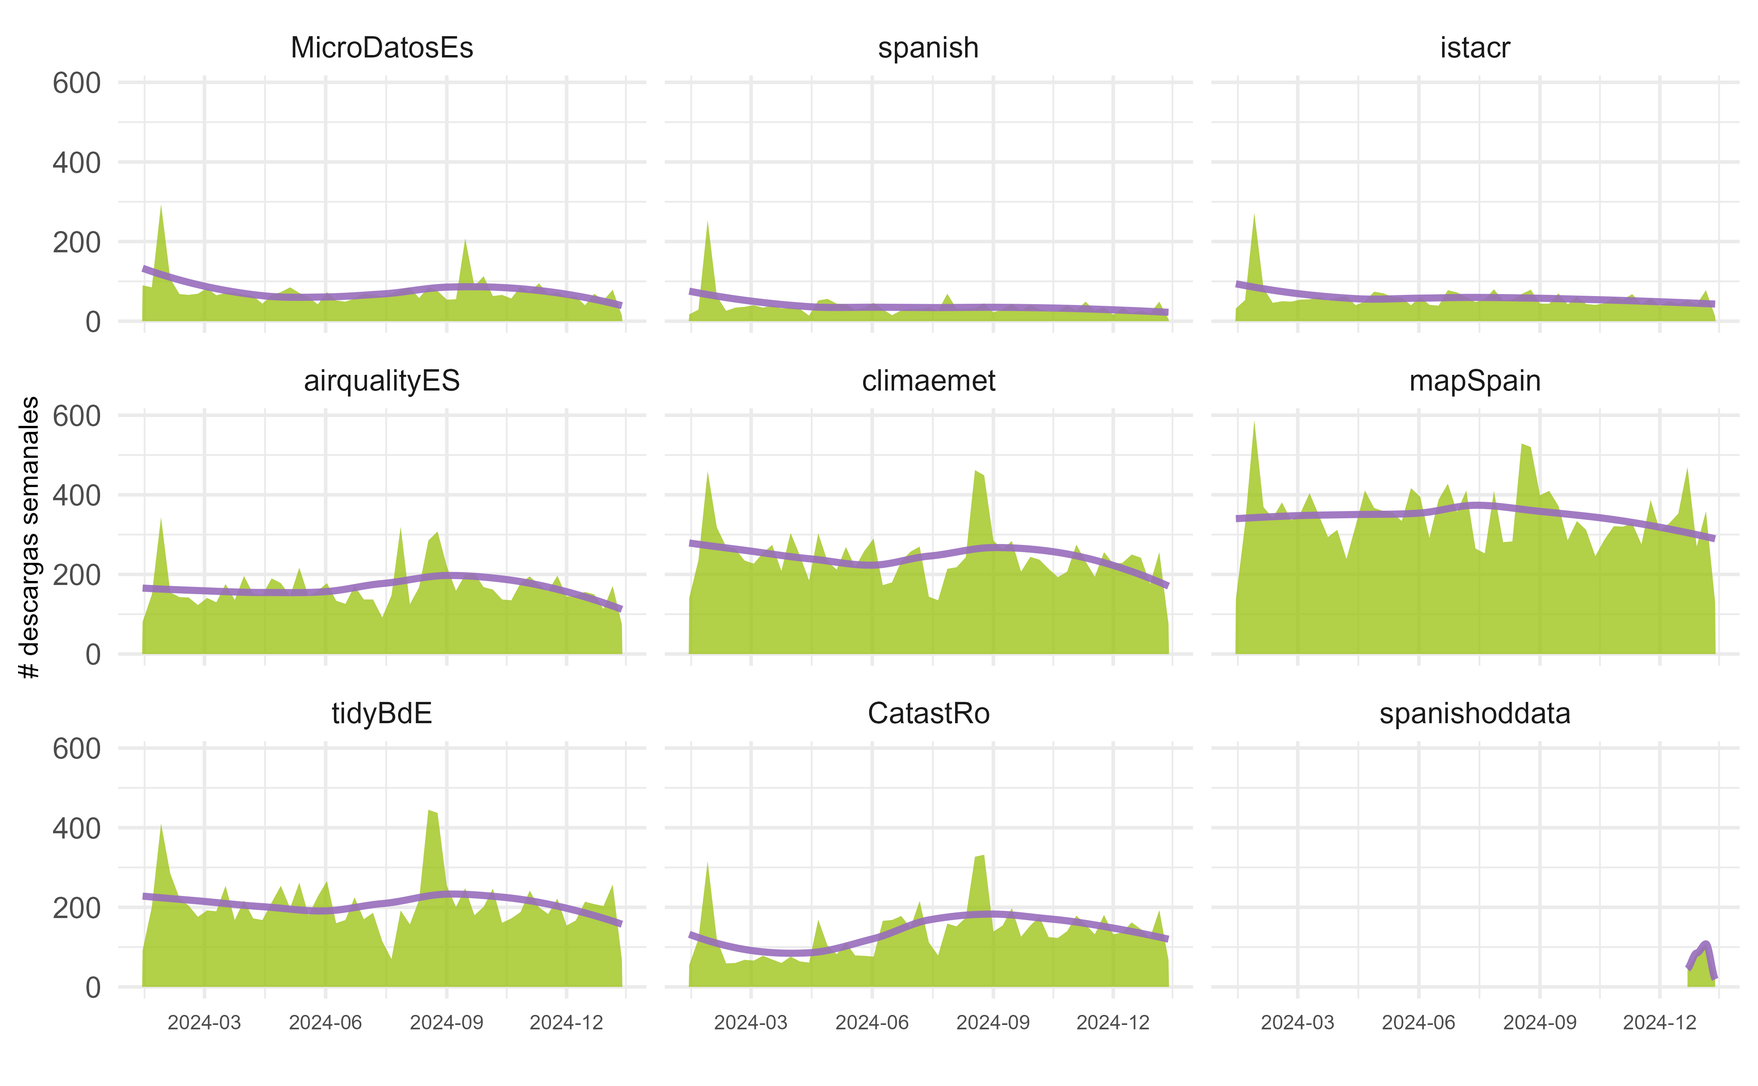
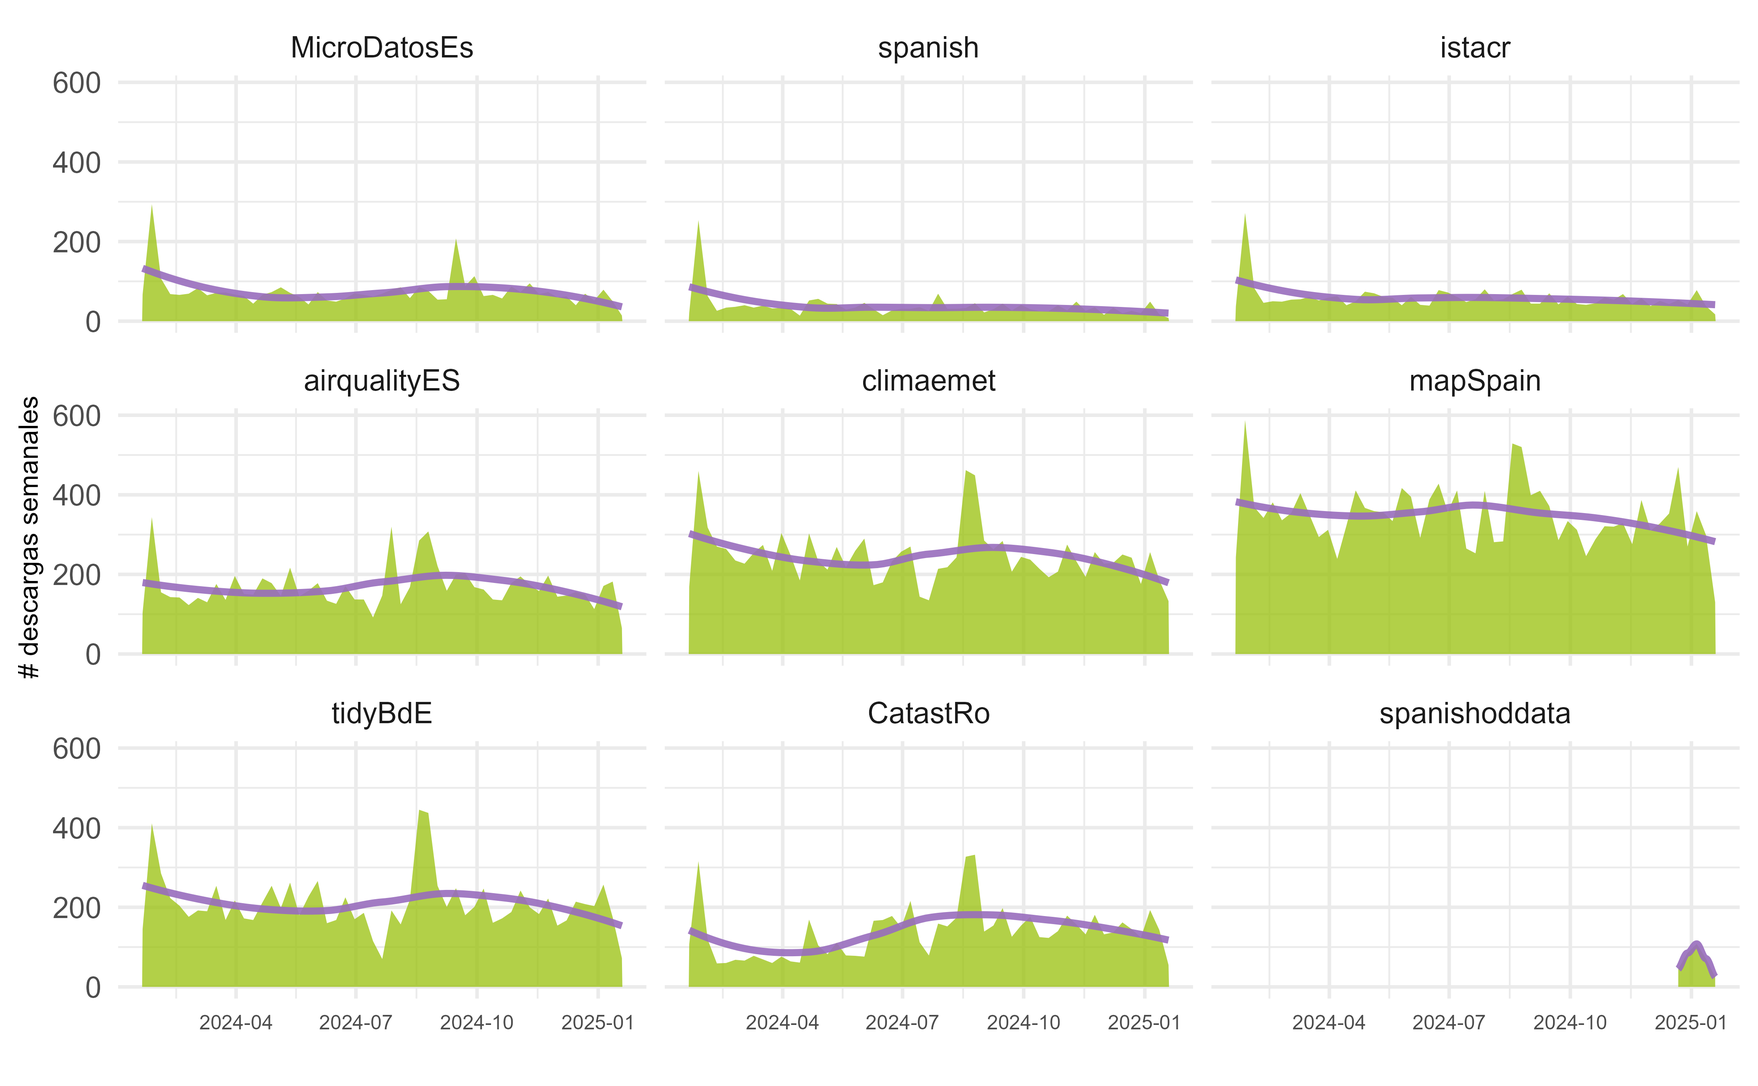
Built site for rostemplate@0.2.0.9000: c3ace7c

diff --git a/articles/descargas.html b/articles/descargas.html
@@ -79,7 +79,7 @@
 
     
     
-<p><em>Fecha de actualización: 09 Jan 2025</em></p>
+<p><em>Fecha de actualización: 16 Jan 2025</em></p>
 <div class="section level2">
 <h2 id="en-cran">En CRAN<a class="anchor" aria-label="anchor" href="#en-cran"></a>
 </h2>
@@ -98,7 +98,7 @@
 <h3 id="datos-sobre-descargas">Datos sobre descargas<a class="anchor" aria-label="anchor" href="#datos-sobre-descargas"></a>
 </h3>
 <div class="reactable html-widget html-fill-item" id="cran-dwn" style="width:auto;height:auto;"></div>
-<script type="application/json" data-for="cran-dwn">{"x":{"tag":{"name":"Reactable","attribs":{"data":{"paquete":["mapSpain","climaemet","tidyBdE","airqualityES","CatastRo","MicroDatosEs","spanishoddata","istacr","spanish"],"en CRAN desde":["2020-11-30","2020-07-07","2021-04-08","2020-02-29","2022-02-28","2013-10-22","2024-12-18","2019-05-03","2018-01-08"],"Versión en CRAN":["2024-12-15","2024-08-28","2024-12-20","2020-02-29","2024-06-02","2023-11-24","2024-12-18","2022-12-20","2019-05-10"],"media diaria":[33,22.4,21.2,20.8,13.4,12.5,11.7,11.1,9.5],"último dia":[85,61,57,62,52,4,7,6,1],"última semana":[266,179,159,153,154,56,58,57,40],"último mes":[1521,937,899,625,652,253,257,222,119],"último año":[18294,12925,11064,8803,7114,3991,257,3099,1980]},"columns":[{"id":"paquete","name":"paquete","type":"character","minWidth":150,"vAlign":"center","footerStyle":{"fontWeight":"bold"},"cell":[{"name":"div","attribs":{},"children":[{"name":"div","attribs":{"style":{"fontWeight":"bold"}},"children":[{"name":"a","attribs":{"href":"https://CRAN.R-project.org/package=mapSpain","target":"_blank"},"children":["mapSpain"]}]},{"name":"div","attribs":{"style":{"fontSize":"75%"}},"children":[{"name":"img","attribs":{"src":"https://badges.cranchecks.info/worst/mapSpain.svg","alt":"mapSpain"},"children":[]}]}]},{"name":"div","attribs":{},"children":[{"name":"div","attribs":{"style":{"fontWeight":"bold"}},"children":[{"name":"a","attribs":{"href":"https://CRAN.R-project.org/package=climaemet","target":"_blank"},"children":["climaemet"]}]},{"name":"div","attribs":{"style":{"fontSize":"75%"}},"children":[{"name":"img","attribs":{"src":"https://badges.cranchecks.info/worst/climaemet.svg","alt":"climaemet"},"children":[]}]}]},{"name":"div","attribs":{},"children":[{"name":"div","attribs":{"style":{"fontWeight":"bold"}},"children":[{"name":"a","attribs":{"href":"https://CRAN.R-project.org/package=tidyBdE","target":"_blank"},"children":["tidyBdE"]}]},{"name":"div","attribs":{"style":{"fontSize":"75%"}},"children":[{"name":"img","attribs":{"src":"https://badges.cranchecks.info/worst/tidyBdE.svg","alt":"tidyBdE"},"children":[]}]}]},{"name":"div","attribs":{},"children":[{"name":"div","attribs":{"style":{"fontWeight":"bold"}},"children":[{"name":"a","attribs":{"href":"https://CRAN.R-project.org/package=airqualityES","target":"_blank"},"children":["airqualityES"]}]},{"name":"div","attribs":{"style":{"fontSize":"75%"}},"children":[{"name":"img","attribs":{"src":"https://badges.cranchecks.info/worst/airqualityES.svg","alt":"airqualityES"},"children":[]}]}]},{"name":"div","attribs":{},"children":[{"name":"div","attribs":{"style":{"fontWeight":"bold"}},"children":[{"name":"a","attribs":{"href":"https://CRAN.R-project.org/package=CatastRo","target":"_blank"},"children":["CatastRo"]}]},{"name":"div","attribs":{"style":{"fontSize":"75%"}},"children":[{"name":"img","attribs":{"src":"https://badges.cranchecks.info/worst/CatastRo.svg","alt":"CatastRo"},"children":[]}]}]},{"name":"div","attribs":{},"children":[{"name":"div","attribs":{"style":{"fontWeight":"bold"}},"children":[{"name":"a","attribs":{"href":"https://CRAN.R-project.org/package=MicroDatosEs","target":"_blank"},"children":["MicroDatosEs"]}]},{"name":"div","attribs":{"style":{"fontSize":"75%"}},"children":[{"name":"img","attribs":{"src":"https://badges.cranchecks.info/worst/MicroDatosEs.svg","alt":"MicroDatosEs"},"children":[]}]}]},{"name":"div","attribs":{},"children":[{"name":"div","attribs":{"style":{"fontWeight":"bold"}},"children":[{"name":"a","attribs":{"href":"https://CRAN.R-project.org/package=spanishoddata","target":"_blank"},"children":["spanishoddata"]}]},{"name":"div","attribs":{"style":{"fontSize":"75%"}},"children":[{"name":"img","attribs":{"src":"https://badges.cranchecks.info/worst/spanishoddata.svg","alt":"spanishoddata"},"children":[]}]}]},{"name":"div","attribs":{},"children":[{"name":"div","attribs":{"style":{"fontWeight":"bold"}},"children":[{"name":"a","attribs":{"href":"https://CRAN.R-project.org/package=istacr","target":"_blank"},"children":["istacr"]}]},{"name":"div","attribs":{"style":{"fontSize":"75%"}},"children":[{"name":"img","attribs":{"src":"https://badges.cranchecks.info/worst/istacr.svg","alt":"istacr"},"children":[]}]}]},{"name":"div","attribs":{},"children":[{"name":"div","attribs":{"style":{"fontWeight":"bold"}},"children":[{"name":"a","attribs":{"href":"https://CRAN.R-project.org/package=spanish","target":"_blank"},"children":["spanish"]}]},{"name":"div","attribs":{"style":{"fontSize":"75%"}},"children":[{"name":"img","attribs":{"src":"https://badges.cranchecks.info/worst/spanish.svg","alt":"spanish"},"children":[]}]}]}],"rowHeader":true,"align":"left","sticky":"left"},{"id":"en CRAN desde","name":"en CRAN desde","type":"Date","minWidth":150,"vAlign":"center","footerStyle":{"fontWeight":"bold"}},{"id":"Versión en CRAN","name":"Versión en CRAN","type":"Date","minWidth":150,"vAlign":"center","footerStyle":{"fontWeight":"bold"}},{"id":"media diaria","name":"media diaria","type":"numeric","footer":"16,7","minWidth":150,"vAlign":"center","footerStyle":{"fontWeight":"bold"},"format":{"cell":{"separators":true},"aggregated":{"separators":true}}},{"id":"último dia","name":"último dia","type":"numeric","footer":"335","minWidth":150,"vAlign":"center","footerStyle":{"fontWeight":"bold"},"format":{"cell":{"separators":true},"aggregated":{"separators":true}}},{"id":"última semana","name":"última semana","type":"numeric","footer":"1.122","minWidth":150,"vAlign":"center","footerStyle":{"fontWeight":"bold"},"format":{"cell":{"separators":true},"aggregated":{"separators":true}}},{"id":"último mes","name":"último mes","type":"numeric","footer":"5.485","minWidth":150,"vAlign":"center","footerStyle":{"fontWeight":"bold"},"format":{"cell":{"separators":true},"aggregated":{"separators":true}}},{"id":"último año","name":"último año","type":"numeric","footer":"67.527","minWidth":150,"vAlign":"center","footerStyle":{"fontWeight":"bold"},"format":{"cell":{"separators":true},"aggregated":{"separators":true}}}],"filterable":true,"searchable":true,"showPageSizeOptions":true,"paginationType":"jump","striped":true,"language":{"sortLabel":"Ordena {name}","filterPlaceholder":"","filterLabel":"Filtro {name}","searchPlaceholder":"Búsqueda","searchLabel":"Búsqueda","noData":"Sin resultados","pageNext":"Siguiente","pagePrevious":"Anterior","pageNumbers":"{page} de {pages}","pageInfo":"{rowStart}–{rowEnd} de {rows} registros","pageSizeOptions":"Mostrando {rows}","pageNextLabel":"Siguiente página","pagePreviousLabel":"Página anterior","pageNumberLabel":"Página {page}","pageJumpLabel":"Ir a página","pageSizeOptionsLabel":"Registros por página"},"elementId":"cran-dwn","dataKey":"a0a7f91104fbe319d462a2974728e206"},"children":[]},"class":"reactR_markup"},"evals":[],"jsHooks":[]}</script>
+<script type="application/json" data-for="cran-dwn">{"x":{"tag":{"name":"Reactable","attribs":{"data":{"paquete":["mapSpain","climaemet","tidyBdE","airqualityES","CatastRo","MicroDatosEs","spanishoddata","istacr","spanish"],"en CRAN desde":["2020-11-30","2020-07-07","2021-04-08","2020-02-29","2022-02-28","2013-10-22","2024-12-18","2019-05-03","2018-01-08"],"Versión en CRAN":["2024-12-15","2024-08-28","2024-12-20","2020-02-29","2024-06-02","2023-11-24","2024-12-18","2022-12-20","2019-05-10"],"media diaria":[33.1,22.5,21.3,20.8,13.4,12.5,11.5,11.1,9.5],"último dia":[80,72,59,50,39,1,3,9,1],"última semana":[244,209,139,133,114,25,61,31,15],"último mes":[1493,980,913,676,656,252,334,223,119],"último año":[18358,12952,11087,8857,7174,3936,334,3092,1967]},"columns":[{"id":"paquete","name":"paquete","type":"character","minWidth":150,"vAlign":"center","footerStyle":{"fontWeight":"bold"},"cell":[{"name":"div","attribs":{},"children":[{"name":"div","attribs":{"style":{"fontWeight":"bold"}},"children":[{"name":"a","attribs":{"href":"https://CRAN.R-project.org/package=mapSpain","target":"_blank"},"children":["mapSpain"]}]},{"name":"div","attribs":{"style":{"fontSize":"75%"}},"children":[{"name":"img","attribs":{"src":"https://badges.cranchecks.info/worst/mapSpain.svg","alt":"mapSpain"},"children":[]}]}]},{"name":"div","attribs":{},"children":[{"name":"div","attribs":{"style":{"fontWeight":"bold"}},"children":[{"name":"a","attribs":{"href":"https://CRAN.R-project.org/package=climaemet","target":"_blank"},"children":["climaemet"]}]},{"name":"div","attribs":{"style":{"fontSize":"75%"}},"children":[{"name":"img","attribs":{"src":"https://badges.cranchecks.info/worst/climaemet.svg","alt":"climaemet"},"children":[]}]}]},{"name":"div","attribs":{},"children":[{"name":"div","attribs":{"style":{"fontWeight":"bold"}},"children":[{"name":"a","attribs":{"href":"https://CRAN.R-project.org/package=tidyBdE","target":"_blank"},"children":["tidyBdE"]}]},{"name":"div","attribs":{"style":{"fontSize":"75%"}},"children":[{"name":"img","attribs":{"src":"https://badges.cranchecks.info/worst/tidyBdE.svg","alt":"tidyBdE"},"children":[]}]}]},{"name":"div","attribs":{},"children":[{"name":"div","attribs":{"style":{"fontWeight":"bold"}},"children":[{"name":"a","attribs":{"href":"https://CRAN.R-project.org/package=airqualityES","target":"_blank"},"children":["airqualityES"]}]},{"name":"div","attribs":{"style":{"fontSize":"75%"}},"children":[{"name":"img","attribs":{"src":"https://badges.cranchecks.info/worst/airqualityES.svg","alt":"airqualityES"},"children":[]}]}]},{"name":"div","attribs":{},"children":[{"name":"div","attribs":{"style":{"fontWeight":"bold"}},"children":[{"name":"a","attribs":{"href":"https://CRAN.R-project.org/package=CatastRo","target":"_blank"},"children":["CatastRo"]}]},{"name":"div","attribs":{"style":{"fontSize":"75%"}},"children":[{"name":"img","attribs":{"src":"https://badges.cranchecks.info/worst/CatastRo.svg","alt":"CatastRo"},"children":[]}]}]},{"name":"div","attribs":{},"children":[{"name":"div","attribs":{"style":{"fontWeight":"bold"}},"children":[{"name":"a","attribs":{"href":"https://CRAN.R-project.org/package=MicroDatosEs","target":"_blank"},"children":["MicroDatosEs"]}]},{"name":"div","attribs":{"style":{"fontSize":"75%"}},"children":[{"name":"img","attribs":{"src":"https://badges.cranchecks.info/worst/MicroDatosEs.svg","alt":"MicroDatosEs"},"children":[]}]}]},{"name":"div","attribs":{},"children":[{"name":"div","attribs":{"style":{"fontWeight":"bold"}},"children":[{"name":"a","attribs":{"href":"https://CRAN.R-project.org/package=spanishoddata","target":"_blank"},"children":["spanishoddata"]}]},{"name":"div","attribs":{"style":{"fontSize":"75%"}},"children":[{"name":"img","attribs":{"src":"https://badges.cranchecks.info/worst/spanishoddata.svg","alt":"spanishoddata"},"children":[]}]}]},{"name":"div","attribs":{},"children":[{"name":"div","attribs":{"style":{"fontWeight":"bold"}},"children":[{"name":"a","attribs":{"href":"https://CRAN.R-project.org/package=istacr","target":"_blank"},"children":["istacr"]}]},{"name":"div","attribs":{"style":{"fontSize":"75%"}},"children":[{"name":"img","attribs":{"src":"https://badges.cranchecks.info/worst/istacr.svg","alt":"istacr"},"children":[]}]}]},{"name":"div","attribs":{},"children":[{"name":"div","attribs":{"style":{"fontWeight":"bold"}},"children":[{"name":"a","attribs":{"href":"https://CRAN.R-project.org/package=spanish","target":"_blank"},"children":["spanish"]}]},{"name":"div","attribs":{"style":{"fontSize":"75%"}},"children":[{"name":"img","attribs":{"src":"https://badges.cranchecks.info/worst/spanish.svg","alt":"spanish"},"children":[]}]}]}],"rowHeader":true,"align":"left","sticky":"left"},{"id":"en CRAN desde","name":"en CRAN desde","type":"Date","minWidth":150,"vAlign":"center","footerStyle":{"fontWeight":"bold"}},{"id":"Versión en CRAN","name":"Versión en CRAN","type":"Date","minWidth":150,"vAlign":"center","footerStyle":{"fontWeight":"bold"}},{"id":"media diaria","name":"media diaria","type":"numeric","footer":"16,7","minWidth":150,"vAlign":"center","footerStyle":{"fontWeight":"bold"},"format":{"cell":{"separators":true},"aggregated":{"separators":true}}},{"id":"último dia","name":"último dia","type":"numeric","footer":"314","minWidth":150,"vAlign":"center","footerStyle":{"fontWeight":"bold"},"format":{"cell":{"separators":true},"aggregated":{"separators":true}}},{"id":"última semana","name":"última semana","type":"numeric","footer":"971","minWidth":150,"vAlign":"center","footerStyle":{"fontWeight":"bold"},"format":{"cell":{"separators":true},"aggregated":{"separators":true}}},{"id":"último mes","name":"último mes","type":"numeric","footer":"5.646","minWidth":150,"vAlign":"center","footerStyle":{"fontWeight":"bold"},"format":{"cell":{"separators":true},"aggregated":{"separators":true}}},{"id":"último año","name":"último año","type":"numeric","footer":"67.757","minWidth":150,"vAlign":"center","footerStyle":{"fontWeight":"bold"},"format":{"cell":{"separators":true},"aggregated":{"separators":true}}}],"filterable":true,"searchable":true,"showPageSizeOptions":true,"paginationType":"jump","striped":true,"language":{"sortLabel":"Ordena {name}","filterPlaceholder":"","filterLabel":"Filtro {name}","searchPlaceholder":"Búsqueda","searchLabel":"Búsqueda","noData":"Sin resultados","pageNext":"Siguiente","pagePrevious":"Anterior","pageNumbers":"{page} de {pages}","pageInfo":"{rowStart}–{rowEnd} de {rows} registros","pageSizeOptions":"Mostrando {rows}","pageNextLabel":"Siguiente página","pagePreviousLabel":"Página anterior","pageNumberLabel":"Página {page}","pageJumpLabel":"Ir a página","pageSizeOptionsLabel":"Registros por página"},"elementId":"cran-dwn","dataKey":"3119b2b2d4eaf0099f3b300e2eeb7ea1"},"children":[]},"class":"reactR_markup"},"evals":[],"jsHooks":[]}</script>
 </div>
 </div>
 <div class="section level2">
@@ -107,7 +107,7 @@
 <p>Descargas de paquetes de <a href="https://ropenspain.es/" class="external-link">rOpenSpain</a> y metadatos desde <a href="https://packagemanager.posit.co/client/#/" class="external-link">Posit Package
 Manager</a>.</p>
 <div class="reactable html-widget html-fill-item" id="posit-dwn" style="width:auto;height:auto;"></div>
-<script type="application/json" data-for="posit-dwn">{"x":{"tag":{"name":"Reactable","attribs":{"data":{"paquete":["mapSpain","spanishoddata","CatastRo","tidyBdE","istacr","climaemet","airqualityES","spanish","MicroDatosEs"],"Última version":["0.10.0","0.1.0","0.4.0","0.3.8","0.2.2","1.4.0","1.0.0","0.4.2","0.8.15"],"en CRAN":["2024-12-15","2024-12-18","2024-06-02","2024-12-20","2022-12-20","2024-08-28","2020-02-29","2019-05-10","2023-11-24"],"Tamaño":["2.34 Mb","1.27 Mb","2.21 Mb","0.24 Mb","0.02 Mb","0.77 Mb","2.2 Mb","0.02 Mb","0.13 Mb"],"Descargas (último mes)":[135,18,14,10,7,6,4,4,4]},"columns":[{"id":"paquete","name":"paquete","type":"character","minWidth":150,"vAlign":"center","footerStyle":{"fontWeight":"bold"},"cell":[{"name":"div","attribs":{"style":{"fontWeight":"bold"}},"children":[{"name":"a","attribs":{"href":"https://CRAN.R-project.org/package=mapSpain","target":"_blank"},"children":["mapSpain"]}]},{"name":"div","attribs":{"style":{"fontWeight":"bold"}},"children":[{"name":"a","attribs":{"href":"https://CRAN.R-project.org/package=spanishoddata","target":"_blank"},"children":["spanishoddata"]}]},{"name":"div","attribs":{"style":{"fontWeight":"bold"}},"children":[{"name":"a","attribs":{"href":"https://CRAN.R-project.org/package=CatastRo","target":"_blank"},"children":["CatastRo"]}]},{"name":"div","attribs":{"style":{"fontWeight":"bold"}},"children":[{"name":"a","attribs":{"href":"https://CRAN.R-project.org/package=tidyBdE","target":"_blank"},"children":["tidyBdE"]}]},{"name":"div","attribs":{"style":{"fontWeight":"bold"}},"children":[{"name":"a","attribs":{"href":"https://CRAN.R-project.org/package=istacr","target":"_blank"},"children":["istacr"]}]},{"name":"div","attribs":{"style":{"fontWeight":"bold"}},"children":[{"name":"a","attribs":{"href":"https://CRAN.R-project.org/package=climaemet","target":"_blank"},"children":["climaemet"]}]},{"name":"div","attribs":{"style":{"fontWeight":"bold"}},"children":[{"name":"a","attribs":{"href":"https://CRAN.R-project.org/package=airqualityES","target":"_blank"},"children":["airqualityES"]}]},{"name":"div","attribs":{"style":{"fontWeight":"bold"}},"children":[{"name":"a","attribs":{"href":"https://CRAN.R-project.org/package=spanish","target":"_blank"},"children":["spanish"]}]},{"name":"div","attribs":{"style":{"fontWeight":"bold"}},"children":[{"name":"a","attribs":{"href":"https://CRAN.R-project.org/package=MicroDatosEs","target":"_blank"},"children":["MicroDatosEs"]}]}],"rowHeader":true,"align":"left","sticky":"left"},{"id":"Última version","name":"Última version","type":"character","minWidth":150,"vAlign":"center","footerStyle":{"fontWeight":"bold"}},{"id":"en CRAN","name":"en CRAN","type":"Date","minWidth":150,"vAlign":"center","footerStyle":{"fontWeight":"bold"}},{"id":"Tamaño","name":"Tamaño","type":"character","minWidth":150,"vAlign":"center","footerStyle":{"fontWeight":"bold"}},{"id":"Descargas (último mes)","name":"Descargas (último mes)","type":"numeric","footer":"202","minWidth":150,"vAlign":"center","footerStyle":{"fontWeight":"bold"},"format":{"cell":{"separators":true},"aggregated":{"separators":true}}}],"filterable":true,"searchable":true,"showPageSizeOptions":true,"paginationType":"jump","striped":true,"language":{"sortLabel":"Ordena {name}","filterPlaceholder":"","filterLabel":"Filtro {name}","searchPlaceholder":"Búsqueda","searchLabel":"Búsqueda","noData":"Sin resultados","pageNext":"Siguiente","pagePrevious":"Anterior","pageNumbers":"{page} de {pages}","pageInfo":"{rowStart}–{rowEnd} de {rows} registros","pageSizeOptions":"Mostrando {rows}","pageNextLabel":"Siguiente página","pagePreviousLabel":"Página anterior","pageNumberLabel":"Página {page}","pageJumpLabel":"Ir a página","pageSizeOptionsLabel":"Registros por página"},"elementId":"posit-dwn","dataKey":"40f203866a1784bdb2d0b1092423c47f"},"children":[]},"class":"reactR_markup"},"evals":[],"jsHooks":[]}</script>
+<script type="application/json" data-for="posit-dwn">{"x":{"tag":{"name":"Reactable","attribs":{"data":{"paquete":["mapSpain","spanishoddata","CatastRo","tidyBdE","istacr","climaemet","spanish","MicroDatosEs","airqualityES"],"Última version":["0.10.0","0.1.0","0.4.0","0.3.8","0.2.2","1.4.0","0.4.2","0.8.15","1.0.0"],"en CRAN":["2024-12-15","2024-12-18","2024-06-02","2024-12-20","2022-12-20","2024-08-28","2019-05-10","2023-11-24","2020-02-29"],"Tamaño":["2.34 Mb","1.27 Mb","2.21 Mb","0.24 Mb","0.02 Mb","0.77 Mb","0.02 Mb","0.13 Mb","2.2 Mb"],"Descargas (último mes)":[142,20,16,7,5,4,2,2,1]},"columns":[{"id":"paquete","name":"paquete","type":"character","minWidth":150,"vAlign":"center","footerStyle":{"fontWeight":"bold"},"cell":[{"name":"div","attribs":{"style":{"fontWeight":"bold"}},"children":[{"name":"a","attribs":{"href":"https://CRAN.R-project.org/package=mapSpain","target":"_blank"},"children":["mapSpain"]}]},{"name":"div","attribs":{"style":{"fontWeight":"bold"}},"children":[{"name":"a","attribs":{"href":"https://CRAN.R-project.org/package=spanishoddata","target":"_blank"},"children":["spanishoddata"]}]},{"name":"div","attribs":{"style":{"fontWeight":"bold"}},"children":[{"name":"a","attribs":{"href":"https://CRAN.R-project.org/package=CatastRo","target":"_blank"},"children":["CatastRo"]}]},{"name":"div","attribs":{"style":{"fontWeight":"bold"}},"children":[{"name":"a","attribs":{"href":"https://CRAN.R-project.org/package=tidyBdE","target":"_blank"},"children":["tidyBdE"]}]},{"name":"div","attribs":{"style":{"fontWeight":"bold"}},"children":[{"name":"a","attribs":{"href":"https://CRAN.R-project.org/package=istacr","target":"_blank"},"children":["istacr"]}]},{"name":"div","attribs":{"style":{"fontWeight":"bold"}},"children":[{"name":"a","attribs":{"href":"https://CRAN.R-project.org/package=climaemet","target":"_blank"},"children":["climaemet"]}]},{"name":"div","attribs":{"style":{"fontWeight":"bold"}},"children":[{"name":"a","attribs":{"href":"https://CRAN.R-project.org/package=spanish","target":"_blank"},"children":["spanish"]}]},{"name":"div","attribs":{"style":{"fontWeight":"bold"}},"children":[{"name":"a","attribs":{"href":"https://CRAN.R-project.org/package=MicroDatosEs","target":"_blank"},"children":["MicroDatosEs"]}]},{"name":"div","attribs":{"style":{"fontWeight":"bold"}},"children":[{"name":"a","attribs":{"href":"https://CRAN.R-project.org/package=airqualityES","target":"_blank"},"children":["airqualityES"]}]}],"rowHeader":true,"align":"left","sticky":"left"},{"id":"Última version","name":"Última version","type":"character","minWidth":150,"vAlign":"center","footerStyle":{"fontWeight":"bold"}},{"id":"en CRAN","name":"en CRAN","type":"Date","minWidth":150,"vAlign":"center","footerStyle":{"fontWeight":"bold"}},{"id":"Tamaño","name":"Tamaño","type":"character","minWidth":150,"vAlign":"center","footerStyle":{"fontWeight":"bold"}},{"id":"Descargas (último mes)","name":"Descargas (último mes)","type":"numeric","footer":"199","minWidth":150,"vAlign":"center","footerStyle":{"fontWeight":"bold"},"format":{"cell":{"separators":true},"aggregated":{"separators":true}}}],"filterable":true,"searchable":true,"showPageSizeOptions":true,"paginationType":"jump","striped":true,"language":{"sortLabel":"Ordena {name}","filterPlaceholder":"","filterLabel":"Filtro {name}","searchPlaceholder":"Búsqueda","searchLabel":"Búsqueda","noData":"Sin resultados","pageNext":"Siguiente","pagePrevious":"Anterior","pageNumbers":"{page} de {pages}","pageInfo":"{rowStart}–{rowEnd} de {rows} registros","pageSizeOptions":"Mostrando {rows}","pageNextLabel":"Siguiente página","pagePreviousLabel":"Página anterior","pageNumberLabel":"Página {page}","pageJumpLabel":"Ir a página","pageSizeOptionsLabel":"Registros por página"},"elementId":"posit-dwn","dataKey":"b822b0b097966b33fd12c9a5f30a6e59"},"children":[]},"class":"reactR_markup"},"evals":[],"jsHooks":[]}</script>
 </div>
   </main><aside class="col-md-3"><nav id="toc" aria-label="Índice de contenidos"><h2>En esta página</h2>
     </nav></aside>
